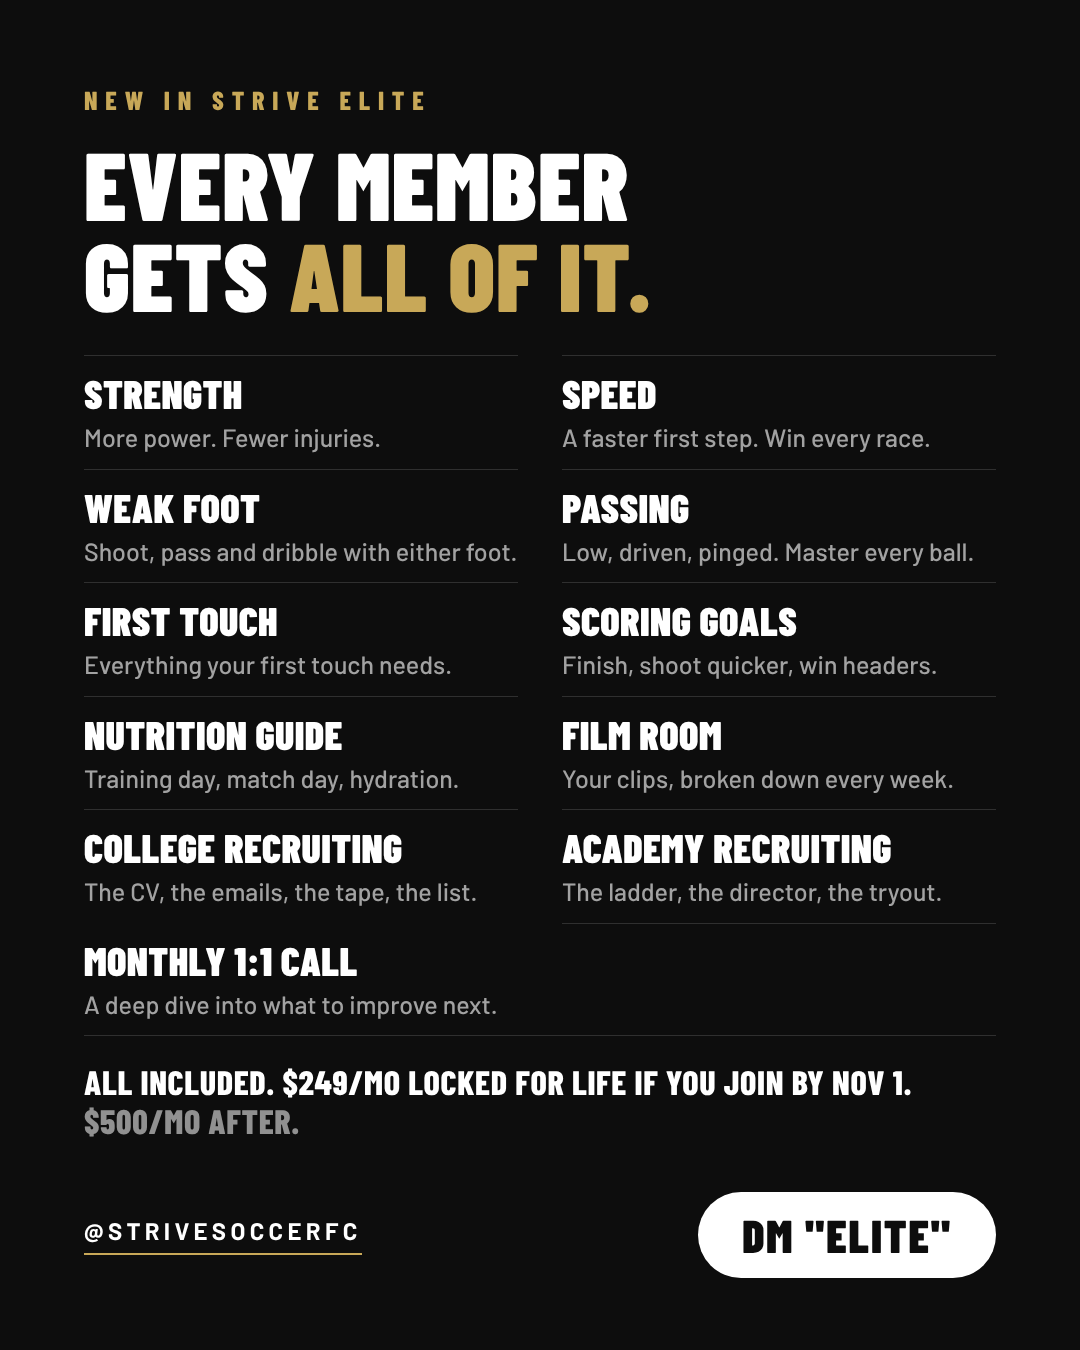
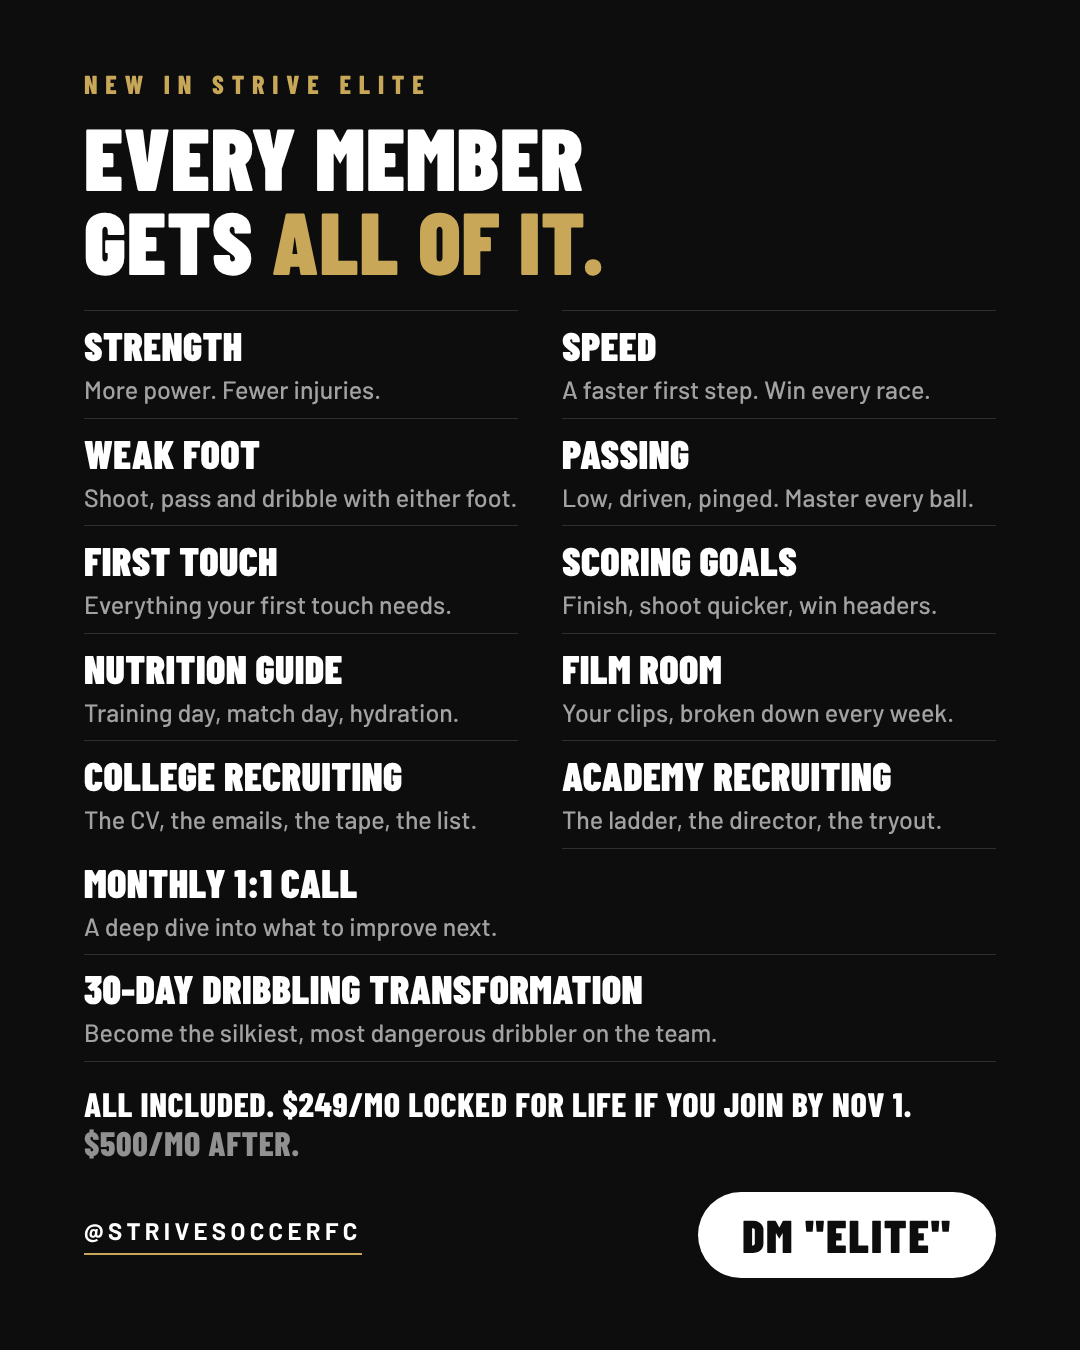
Offer post: 30-Day Dribbling Transformation block
Claude-Session: https://claude.ai/code/session_011JsCTTjCbUkHbTuWTKQSXJ

Changed region(s): [[0.0611, 0.0311, 0.8861, 0.8711]]

diff --git a/marketing/announcement/offer-post/post.html b/marketing/announcement/offer-post/post.html
@@ -7,16 +7,16 @@
    count. Pairs with the caption in strive-elite-offer-post.md. */
 *{box-sizing:border-box;margin:0;padding:0}
 html,body{width:1080px;height:1350px;background:#0d0d0d;overflow:hidden}
-body{font-family:'Barlow',sans-serif;color:#fff;position:relative;padding:84px 84px 0}
+body{font-family:'Barlow',sans-serif;color:#fff;position:relative;padding:68px 84px 0}
 .gold{color:#c8a858}
 .eyebrow{font-family:'Barlow Condensed';font-weight:800;font-size:26px;letter-spacing:.3em;text-transform:uppercase;color:#c8a858}
-h1{font-family:'Barlow Condensed';font-weight:900;font-size:96px;line-height:.95;text-transform:uppercase;margin-top:22px;letter-spacing:.01em}
-.grid{margin-top:36px;display:grid;grid-template-columns:1fr 1fr;column-gap:44px}
-.item{padding:17px 0 15px;border-top:1px solid rgba(255,255,255,.14)}
+h1{font-family:'Barlow Condensed';font-weight:900;font-size:88px;line-height:.95;text-transform:uppercase;margin-top:16px;letter-spacing:.01em}
+.grid{margin-top:28px;display:grid;grid-template-columns:1fr 1fr;column-gap:44px}
+.item{padding:14px 0 12px;border-top:1px solid rgba(255,255,255,.14)}
 .item b{display:block;font-family:'Barlow Condensed';font-weight:900;font-size:40px;line-height:1;text-transform:uppercase;letter-spacing:.01em}
 .item p{margin-top:8px;font-size:25px;line-height:1.3;color:rgba(255,255,255,.62)}
 .item.last{border-bottom:1px solid rgba(255,255,255,.14)}
-.all{margin-top:26px;font-family:'Barlow Condensed';font-weight:800;font-size:34px;line-height:1.15;text-transform:uppercase;letter-spacing:.02em}
+.all{margin-top:22px;font-family:'Barlow Condensed';font-weight:800;font-size:34px;line-height:1.15;text-transform:uppercase;letter-spacing:.02em}
 .all span{color:rgba(255,255,255,.55);font-weight:700}
 .bar{position:absolute;left:84px;right:84px;bottom:72px;display:flex;align-items:center;justify-content:space-between}
 .cta{background:#fff;color:#0d0d0d;font-family:'Barlow Condensed';font-weight:900;font-size:46px;letter-spacing:.04em;text-transform:uppercase;padding:20px 44px;border-radius:999px;line-height:1}
@@ -40,6 +40,7 @@ h1{font-family:'Barlow Condensed';font-weight:900;font-size:96px;line-height:.95
   <div class="item last"><b>Academy Recruiting</b><p>The ladder, the director, the tryout.</p></div>
 </div>
 <div class="item last" style="border-top:0;margin-top:-1px"><b>Monthly 1:1 Call</b><p>A deep dive into what to improve next.</p></div>
+<div class="item last" style="border-top:0;margin-top:-1px"><b>30-Day Dribbling Transformation</b><p>Become the silkiest, most dangerous dribbler on the team.</p></div>
 
 <p class="all">All included. $249/mo locked for life if you join by Nov 1. <span>$500/mo after.</span></p>
 

diff --git a/marketing/announcement/strive-elite-offer-post.md b/marketing/announcement/strive-elite-offer-post.md
@@ -48,6 +48,9 @@ Send your player's game clips. Coach Gary and I break them down and give the dri
 MONTHLY 1:1 CALL
 A deep dive into what to improve next and exactly how to work on it.
 
+30-DAY DRIBBLING TRANSFORMATION
+Thirty days of work to become the silkiest, most dangerous dribbler on the team.
+
 All included. $249 a month, locked for life, if you join by November 1. $500 after.
 
 DM ELITE.
@@ -69,12 +72,13 @@ College Recruiting. The CV, the emails, the tape, the list.
 Academy Recruiting. The ladder, the director, the tryout.
 Film Room. Your clips, broken down every week.
 Monthly 1:1 call. A deep dive into what to improve next.
+30-Day Dribbling Transformation. The silkiest, most dangerous dribbler on the team.
 
 $249 a month locked for life if you join by Nov 1. DM ELITE.
 ```
 
 Flags: the General Nutrition Guide is live (Nov 1). SCORING GOALS (first called Finishing in the
-Box) and PASSING were added Nov 4 on Coach Yinka's "cap about it for now": the course
+Box), PASSING and the 30-DAY DRIBBLING TRANSFORMATION were added Nov 4 on Coach Yinka's "cap about it for now": the course
 is NOT in the app, no shooting clip has been sent, and the block carries
 no drill count on purpose; it becomes true the day the clips are banked
 and the course is switched on. The Nov 1 date needs his call if the

diff --git a/CLAUDE.md b/CLAUDE.md
@@ -3077,6 +3077,18 @@ commit.
       course row); same standing as Scoring Goals: on the post on his
       word, built the day the clips land with their names and tags.
       Caption and story version carry the same two changes. Sent.
+      THEN (Coach Yinka: "you can't leave out the 30-day dribbling
+      transformation course, where they can become the silkiest, most
+      dangerous dribbler on their team"): a TWELFTH block, 30-DAY
+      DRIBBLING TRANSFORMATION, "Become the silkiest, most dangerous
+      dribbler on the team.", his name and his words, as the last
+      full-width row; headline and row spacing tightened so twelve
+      fit above the price line. Not in the app as a course (the bank
+      has the Confidence moves, 1v1 freestyle and the cone weaves to
+      build it from, zero filming needed once he orders it); same
+      standing as Scoring Goals and Passing. The Oct 11 flag on
+      "most ... on your team" promises stands as a note, his call.
+      Caption and story version updated. Sent.
 
 ## Growth target (stamped Sept 19, Coach Yinka's own call)
 
